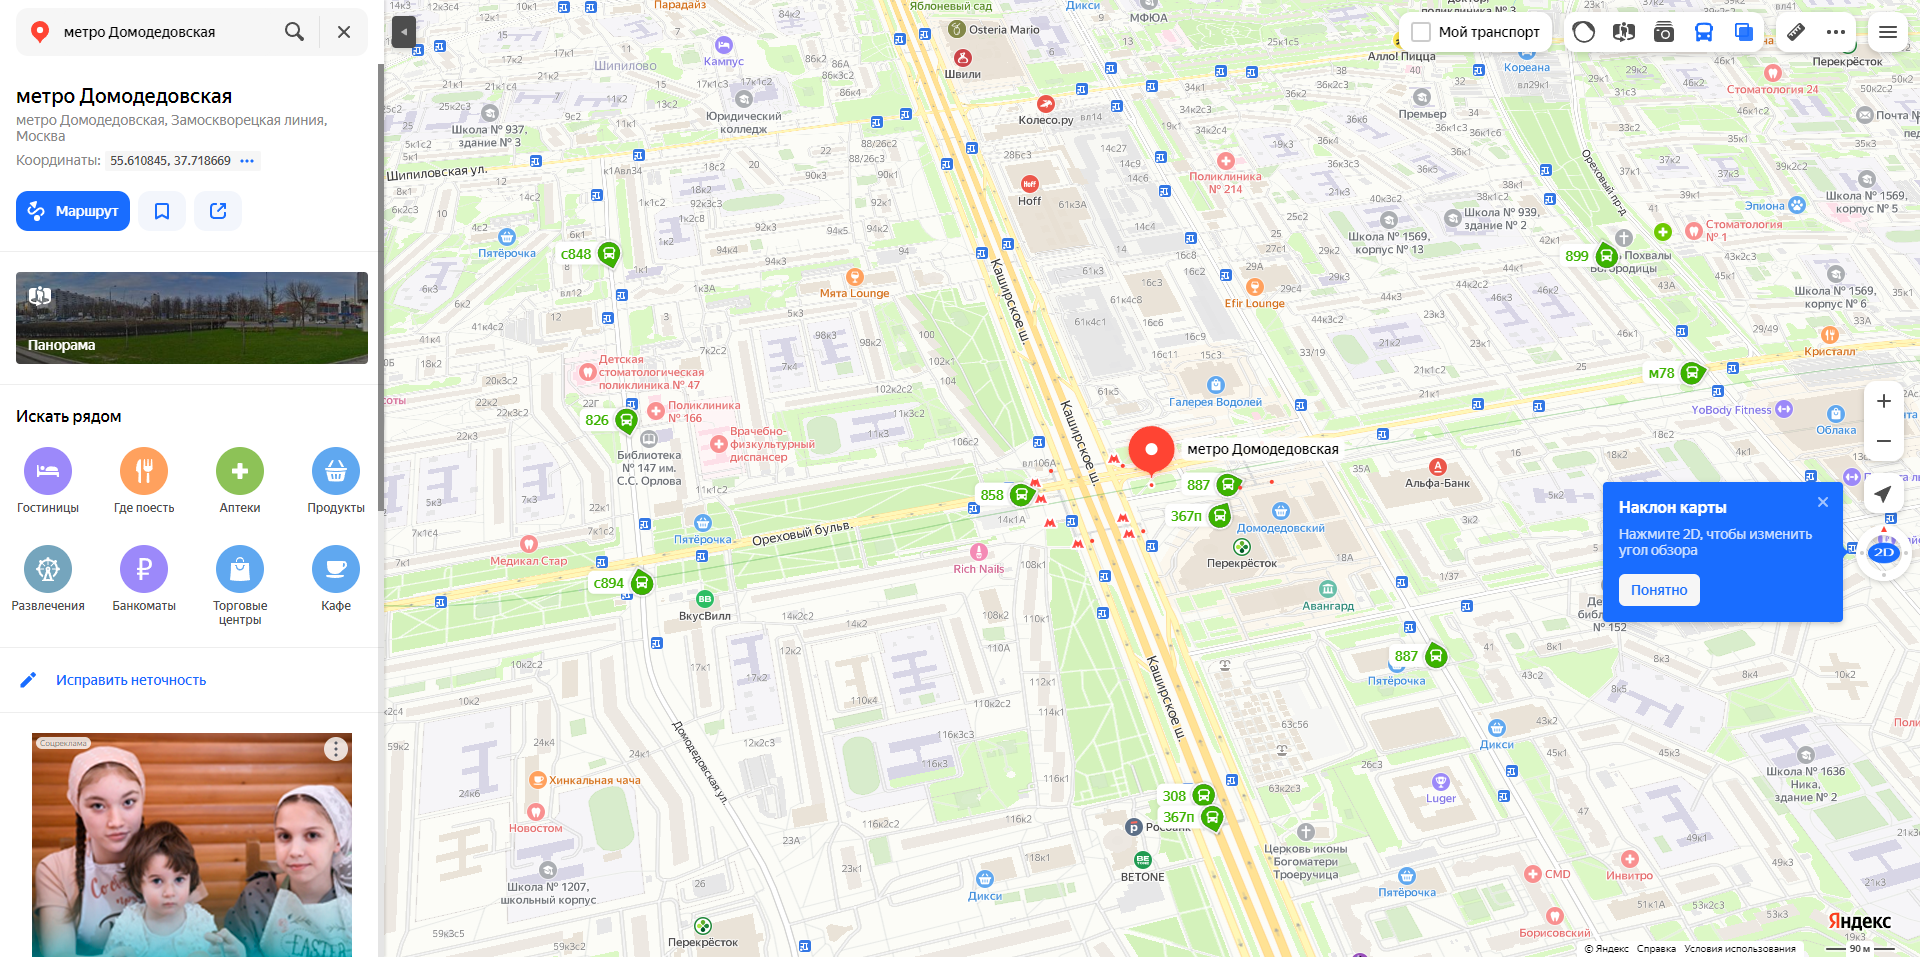
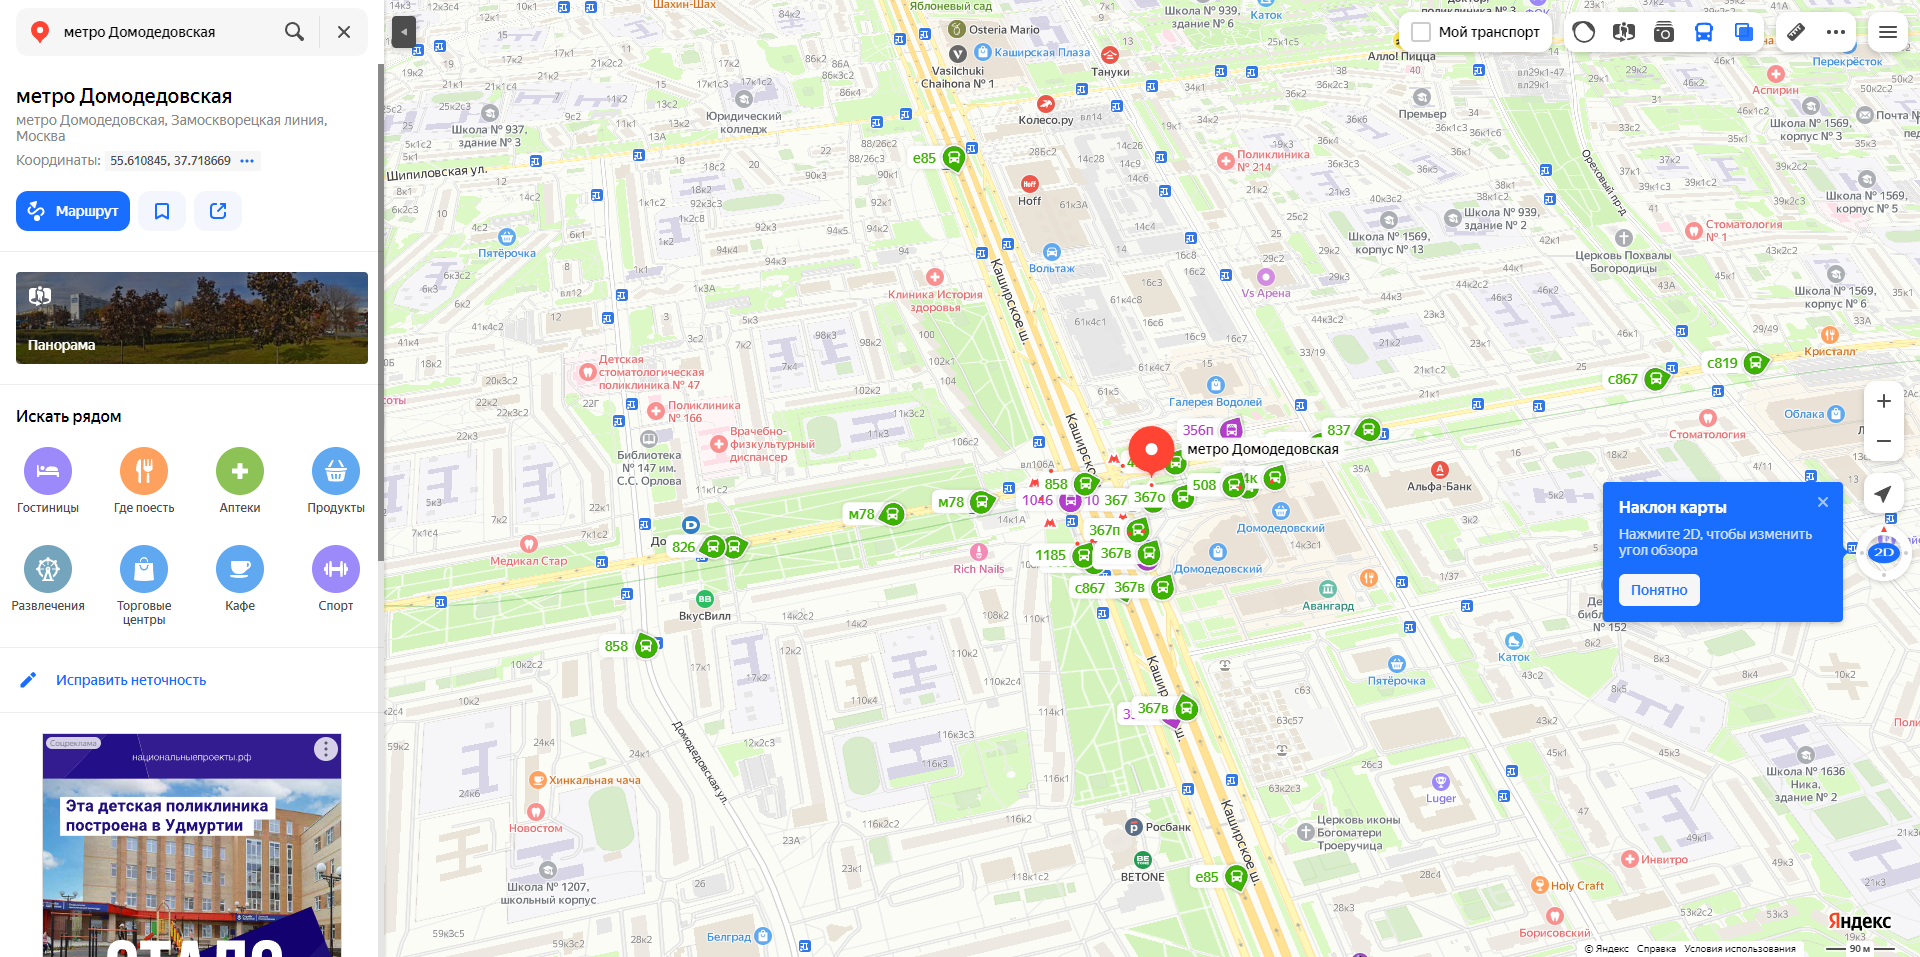
Updated files

diff --git a/tests/map_page_positive.py b/tests/map_page_positive.py
@@ -1,5 +1,4 @@
 import time
-
 import pytest
 from pages.main_page import MainPage
 from settings import *
@@ -255,7 +254,7 @@ class TestMapPagePositive:
         with allure.step("Шаг 3: Нажать на элемент 'Дорожная ситуация'."):
             result = page.traffic_btn_click(driver)
             page.wait_page_loaded()
-        with allure.step("Шаг 4: Выполнить проверку результатов теста."):
+        with allure.step("Шаг 4: Выполнить проверку результата теста."):
             if result:
                 page.make_screenshot(file_path=screenshots_folder + "\\test_traffic_btn_click.png")
                 allure.attach(page.get_page_screenshot_PNG(),
@@ -271,29 +270,51 @@ class TestMapPagePositive:
                 page.clear_searching_field(driver)
                 page.switch_off_3D_map_mode(driver)
                 raise Exception(Style.DIM + Fore.RED + f"\nОшибка! Трафик на карте не отображается, контроллер кнопки "
-                                                       f"'Дорожная ситуация' не активен/не работает.\nОтразить ошибку в "
-                                                       f"системе и создать баг-репорт!")
+                                                       f"'Дорожная ситуация' не активен/не работает.\nОтразить ошибку "
+                                                       f"в системе и создать баг-репорт!")
 
     @pytest.mark.city_trans
-    def test_city_trans_btn_click(self, driver):
+    @allure.title("Отображение маршрутного транспорта на карте.")
+    @allure.testcase("https://yandex.ru/maps", "TC-YMPS-TRFFC-01")
+    @allure.severity(allure.severity_level.CRITICAL)
+    @allure.label(LabelType.LANGUAGE, "Python")
+    @allure.label(LabelType.FRAMEWORK, "Pytest", "Selenium")
+    @allure.label("Агафонов Е.А.", "владелец")
+    @allure.link("https://yandex.ru/maps", name="https://yandex.ru/maps")
+    @allure.epic("Пользовательский интерфейс (позитивные тесты)")
+    @allure.feature("Отображение на дорогах города движущегося маршрутного транспорта.")
+    def test_city_trans_btn_click(self, driver, address="Москва, ст. метро Домодедовская"):
         """Позитивный тест проверки нажатия кнопки "Движущийся транспорт", отображающей на карте местоположение
-        городского общественного транспорта с номером маршрута. Валидация теста выполнена успешно в случае, если
+        городского общественного транспорта (ОТ) с номером маршрута. Валидация теста выполнена успешно в случае, если
         после воздействия на контроллер кнопки, на карте отображаются иконки движущегося в реальном времени
         общественного транспорта с указанием маршрута."""
 
-        page = MainPage(driver)
-        page.wait_page_loaded(check_images=True, check_page_changes=True)
-        page.enter_searching_address(driver, "Москва, ст. метро Домодедовская")
-        page.wait_page_loaded(check_images=True)
-        page.switch_to_3D_map_click(driver)
-        result = page.city_transprt_btn_click(driver)
-        page.wait_page_loaded(check_images=True)
-
-        if result:
-            page.make_screenshot(file_path=screenshots_folder + "\\test_city_trans_btn_click.png")
-            print(Style.DIM + Fore.GREEN + f"\n Тест test_city_transprt_btn_click выполнен успешно!")
-        else:
-            raise Exception(
-                Style.DIM + Fore.RED + f"\nОшибка! Иконки общественного транспорта на карте не отображаются,"
-                                       f" контроллер кнопки 'Движущийся транспорт' не активен/не работает."
-                                       f"\nОтразить ошибку в системе и создать баг-репорт!")
+        with allure.step("Шаг 1: Перейти на сайт https://yandex.ru/maps/ и дождаться полной загрузки всех элементов."):
+            page = MainPage(driver)
+            page.wait_page_loaded()
+        with allure.step("Шаг 2: В поле 'Поиск мест и адресов' указать адрес места с интересующим трафиком ОС."):
+            page.enter_searching_address(driver, address)
+            page.wait_page_loaded()
+        with allure.step("Шаг 3: Нажать на элемент 'Движущийся транспорт'."):
+            result = page.city_transprt_btn_click(driver)
+            page.switch_to_3D_map_click(driver)
+            page.wait_page_loaded()
+        with allure.step("Шаг 4: Выполнить проверку результата теста."):
+            if result:
+                page.make_screenshot(file_path=screenshots_folder + "\\test_city_trans_btn_click.png")
+                allure.attach(page.get_page_screenshot_PNG(),
+                              name="city_trans_btn_click_PASSED",
+                              attachment_type=allure.attachment_type.PNG)
+                page.clear_searching_field(driver)
+                page.switch_off_3D_map_mode(driver)
+                print(Style.DIM + Fore.GREEN + f"\n Тест test_city_transprt_btn_click выполнен успешно!")
+            else:
+                allure.attach(page.get_page_screenshot_PNG(),
+                              name="city_trans_btn_click_FAILED",
+                              attachment_type=allure.attachment_type.PNG)
+                page.clear_searching_field(driver)
+                page.switch_off_3D_map_mode(driver)
+                raise Exception(Style.DIM + Fore.RED + f"\nОшибка! Иконки общественного транспорта на карте не "
+                                                       f"отображаются, контроллер кнопки 'Движущийся транспорт' не "
+                                                       f"активен/не работает.\nОтразить ошибку в системе и создать "
+                                                       f"баг-репорт!")
